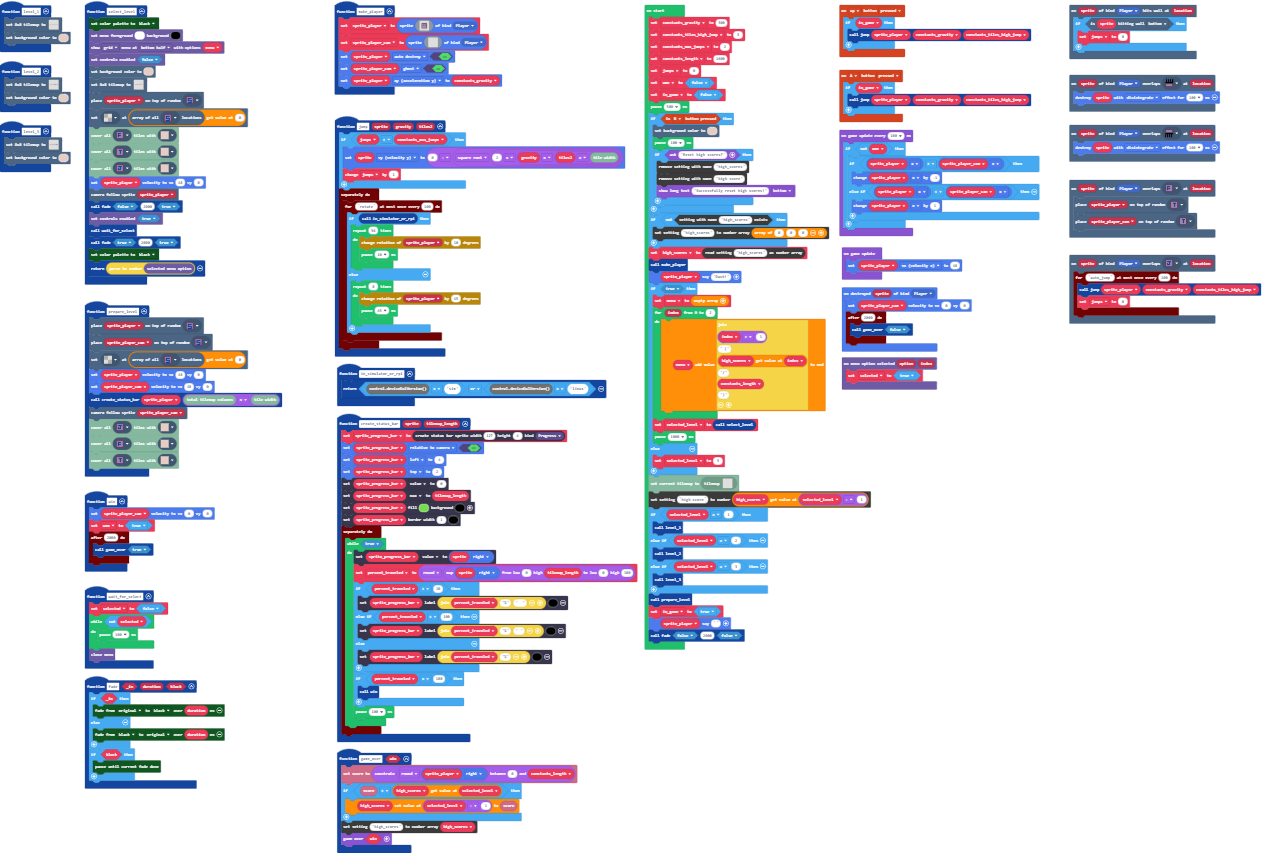
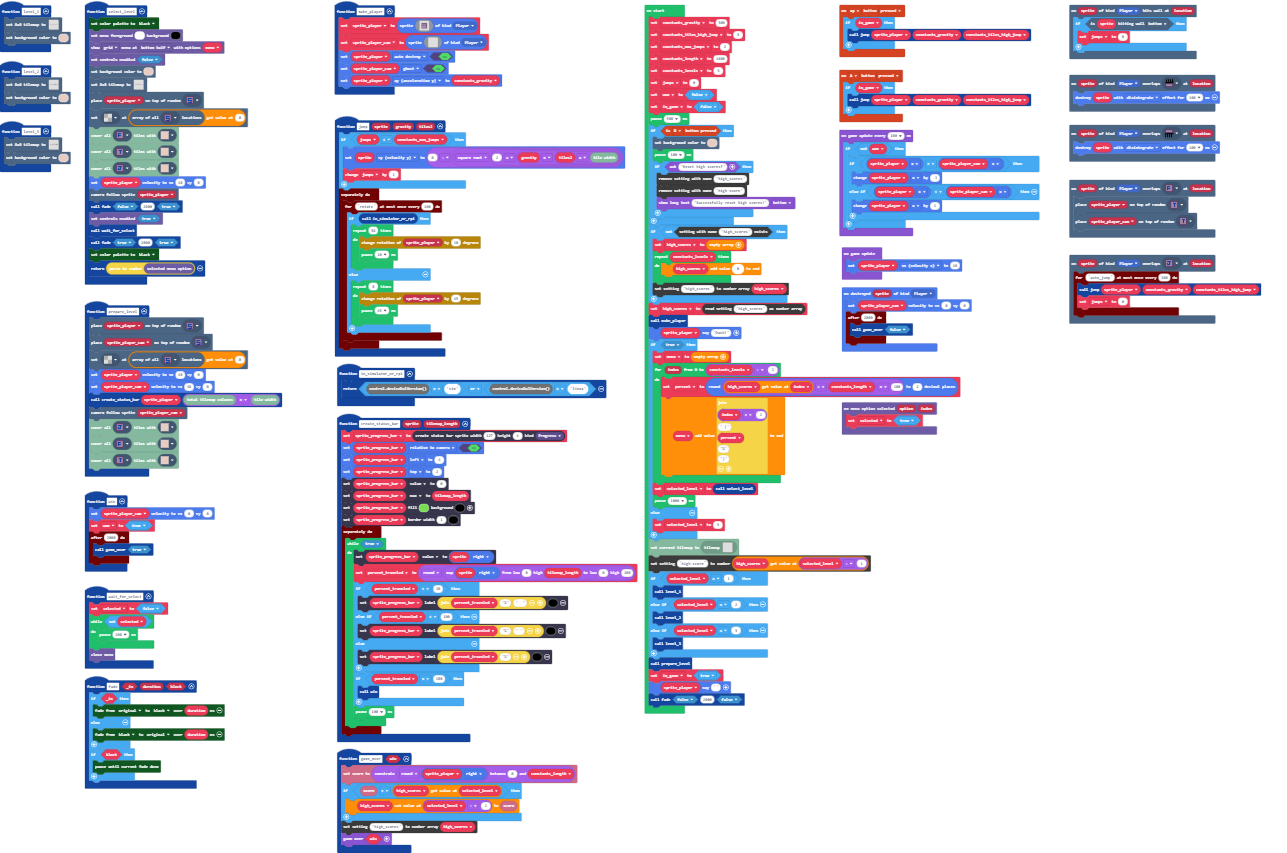
Change to percents

Changed region(s): [[0.4973, 0.061, 0.7459, 0.8535]]

diff --git a/main.ts b/main.ts
@@ -185,6 +185,7 @@ let percent_traveled = 0
 let sprite_progress_bar: StatusBarSprite = null
 let sprite_player_cam: Sprite = null
 let selected_level = 0
+let percent = 0
 let menu: string[] = []
 let sprite_player: Sprite = null
 let high_scores: number[] = []
@@ -199,6 +200,7 @@ constants_gravity = 300
 constants_tiles_high_jump = 3
 constants_max_jumps = 2
 constants_length = 1600
+let constants_levels = 3
 jumps = 0
 won = false
 in_game = false
@@ -213,15 +215,20 @@ if (controller.B.isPressed()) {
     }
 }
 if (!(blockSettings.exists("high_scores"))) {
-    blockSettings.writeNumberArray("high_scores", [0, 0, 0])
+    high_scores = []
+    for (let index = 0; index < constants_levels; index++) {
+        high_scores.push(0)
+    }
+    blockSettings.writeNumberArray("high_scores", high_scores)
 }
 high_scores = blockSettings.readNumberArray("high_scores")
 make_player()
 sprite_player.say("Dash!")
 if (true) {
     menu = []
-    for (let index = 0; index <= 2; index++) {
-        menu.push("" + (index + 1) + " (" + high_scores[index] + "/" + constants_length + ")")
+    for (let index = 0; index <= constants_levels - 1; index++) {
+        percent = spriteutils.roundWithPrecision(high_scores[index] / constants_length * 100, 2)
+        menu.push("" + (index + 1) + " (" + percent + "%" + ")")
     }
     selected_level = select_level()
     pause(1000)
